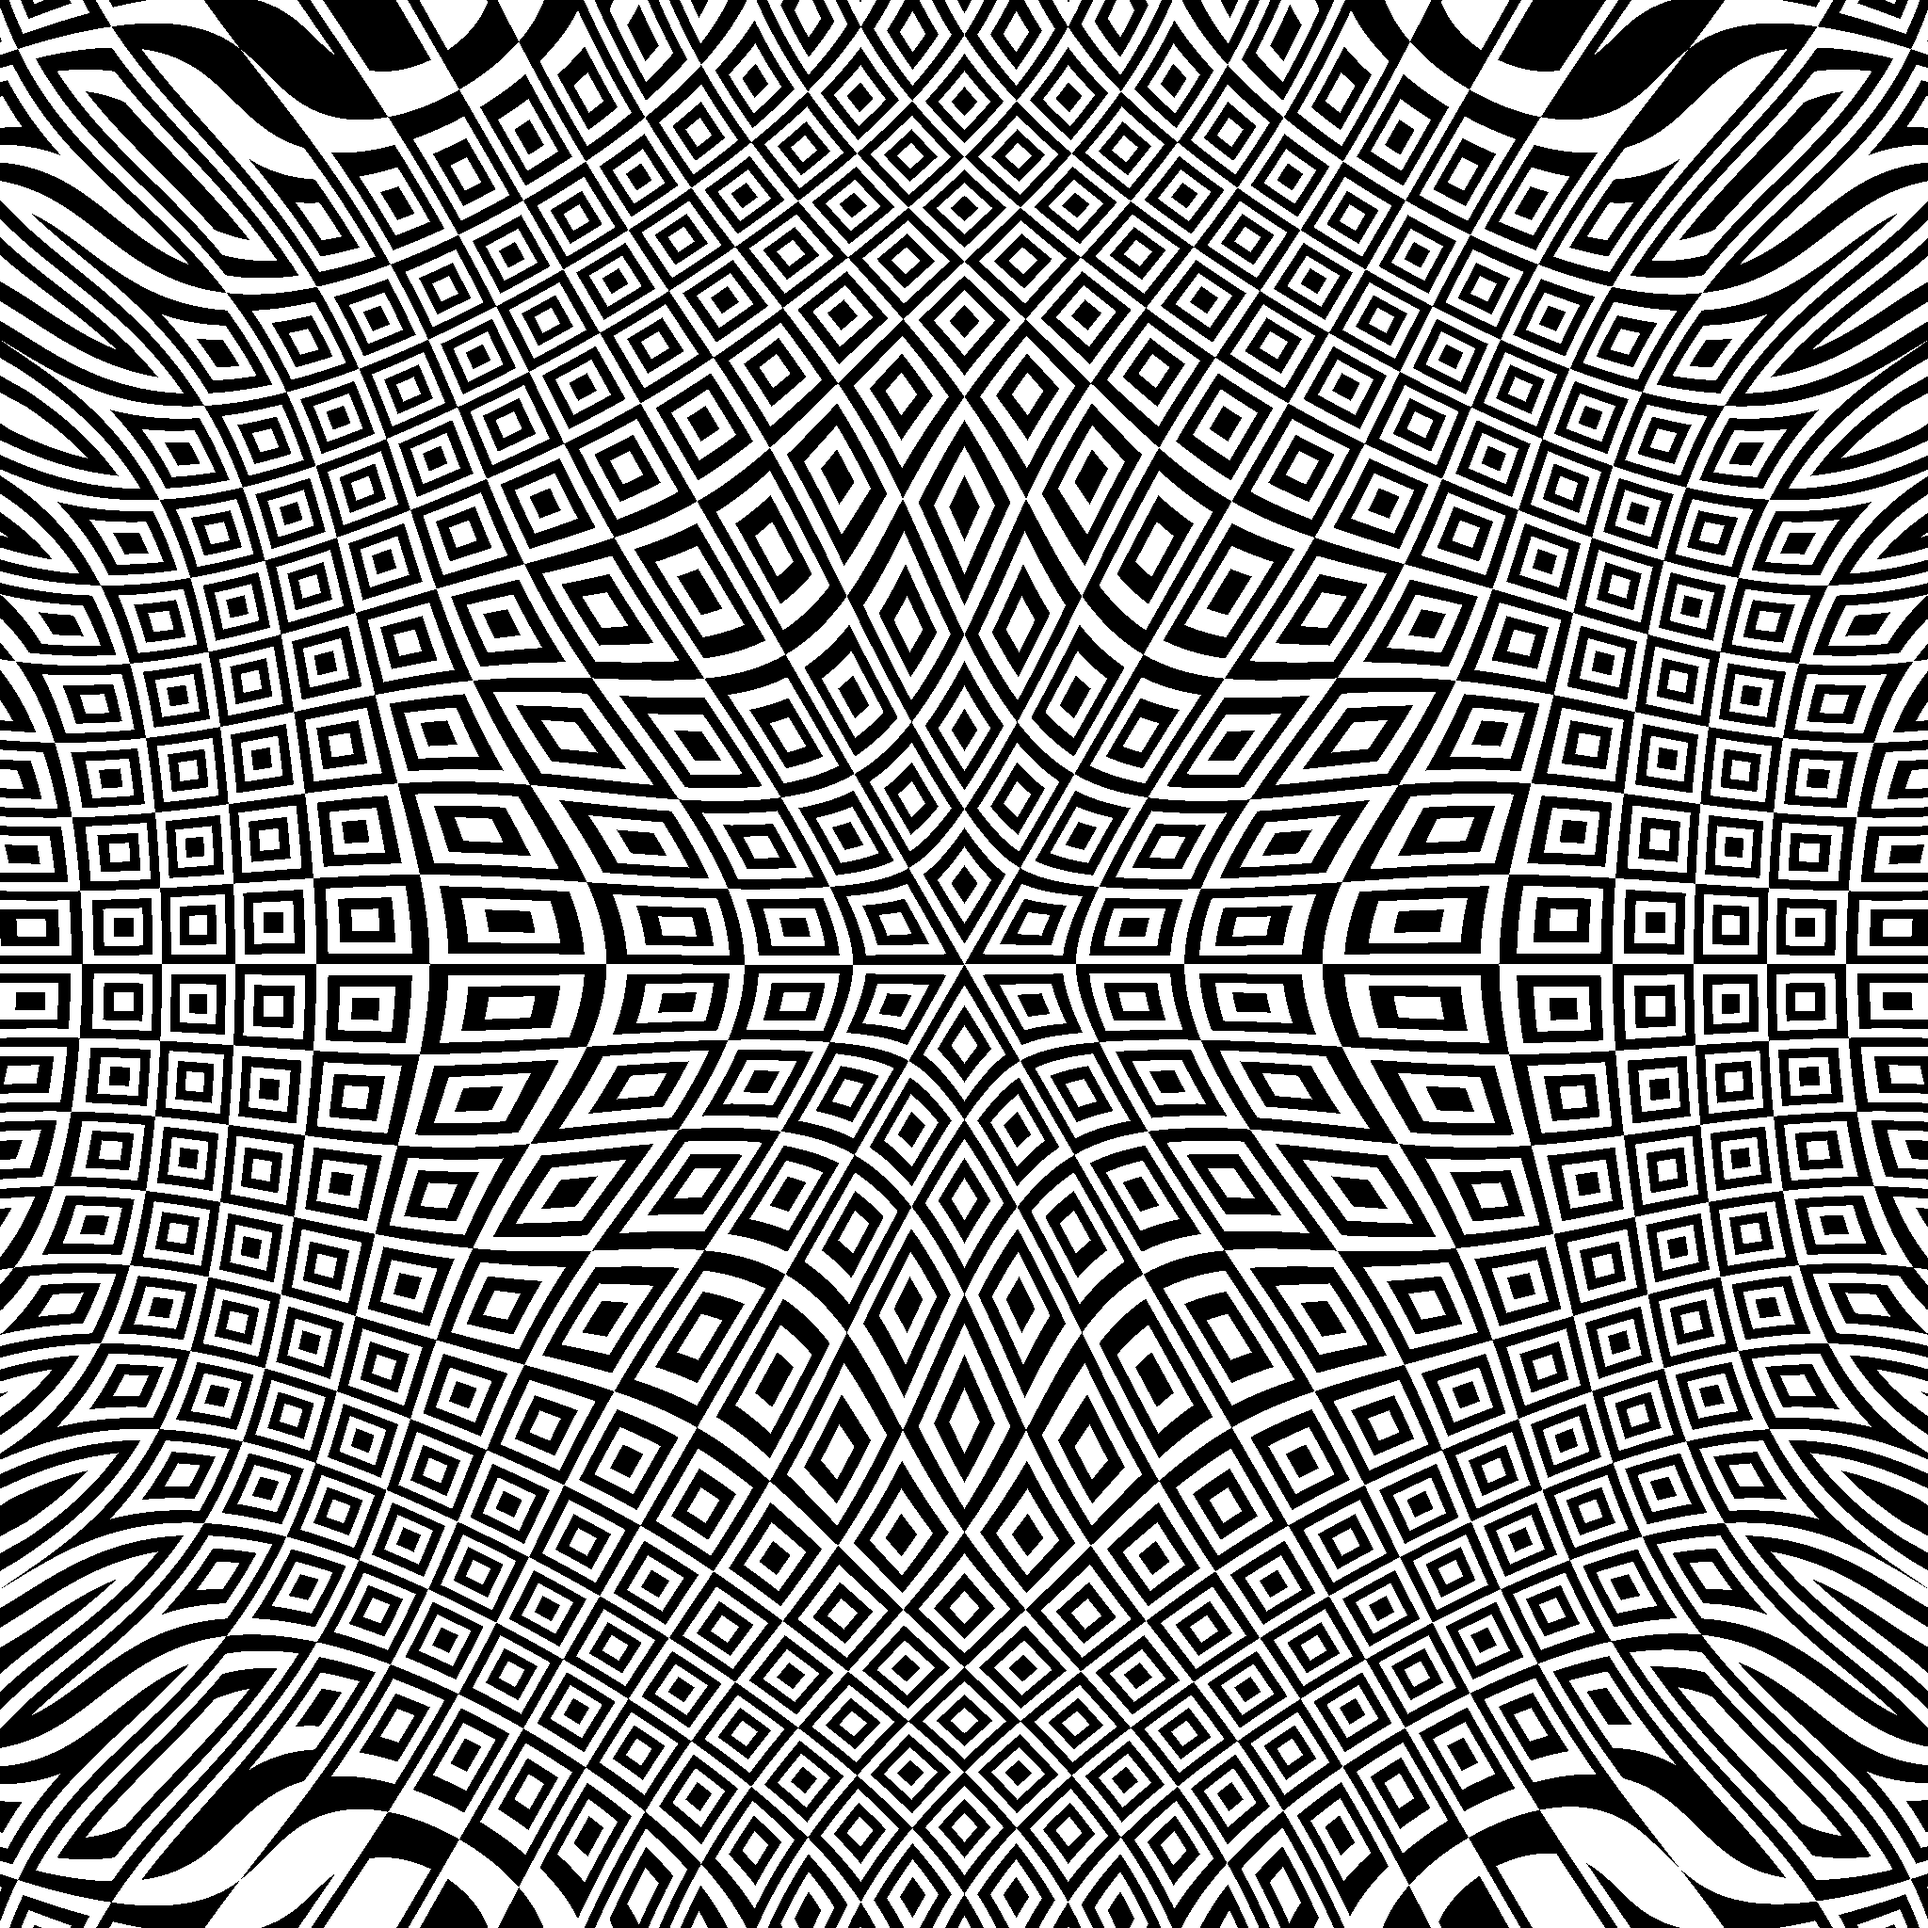
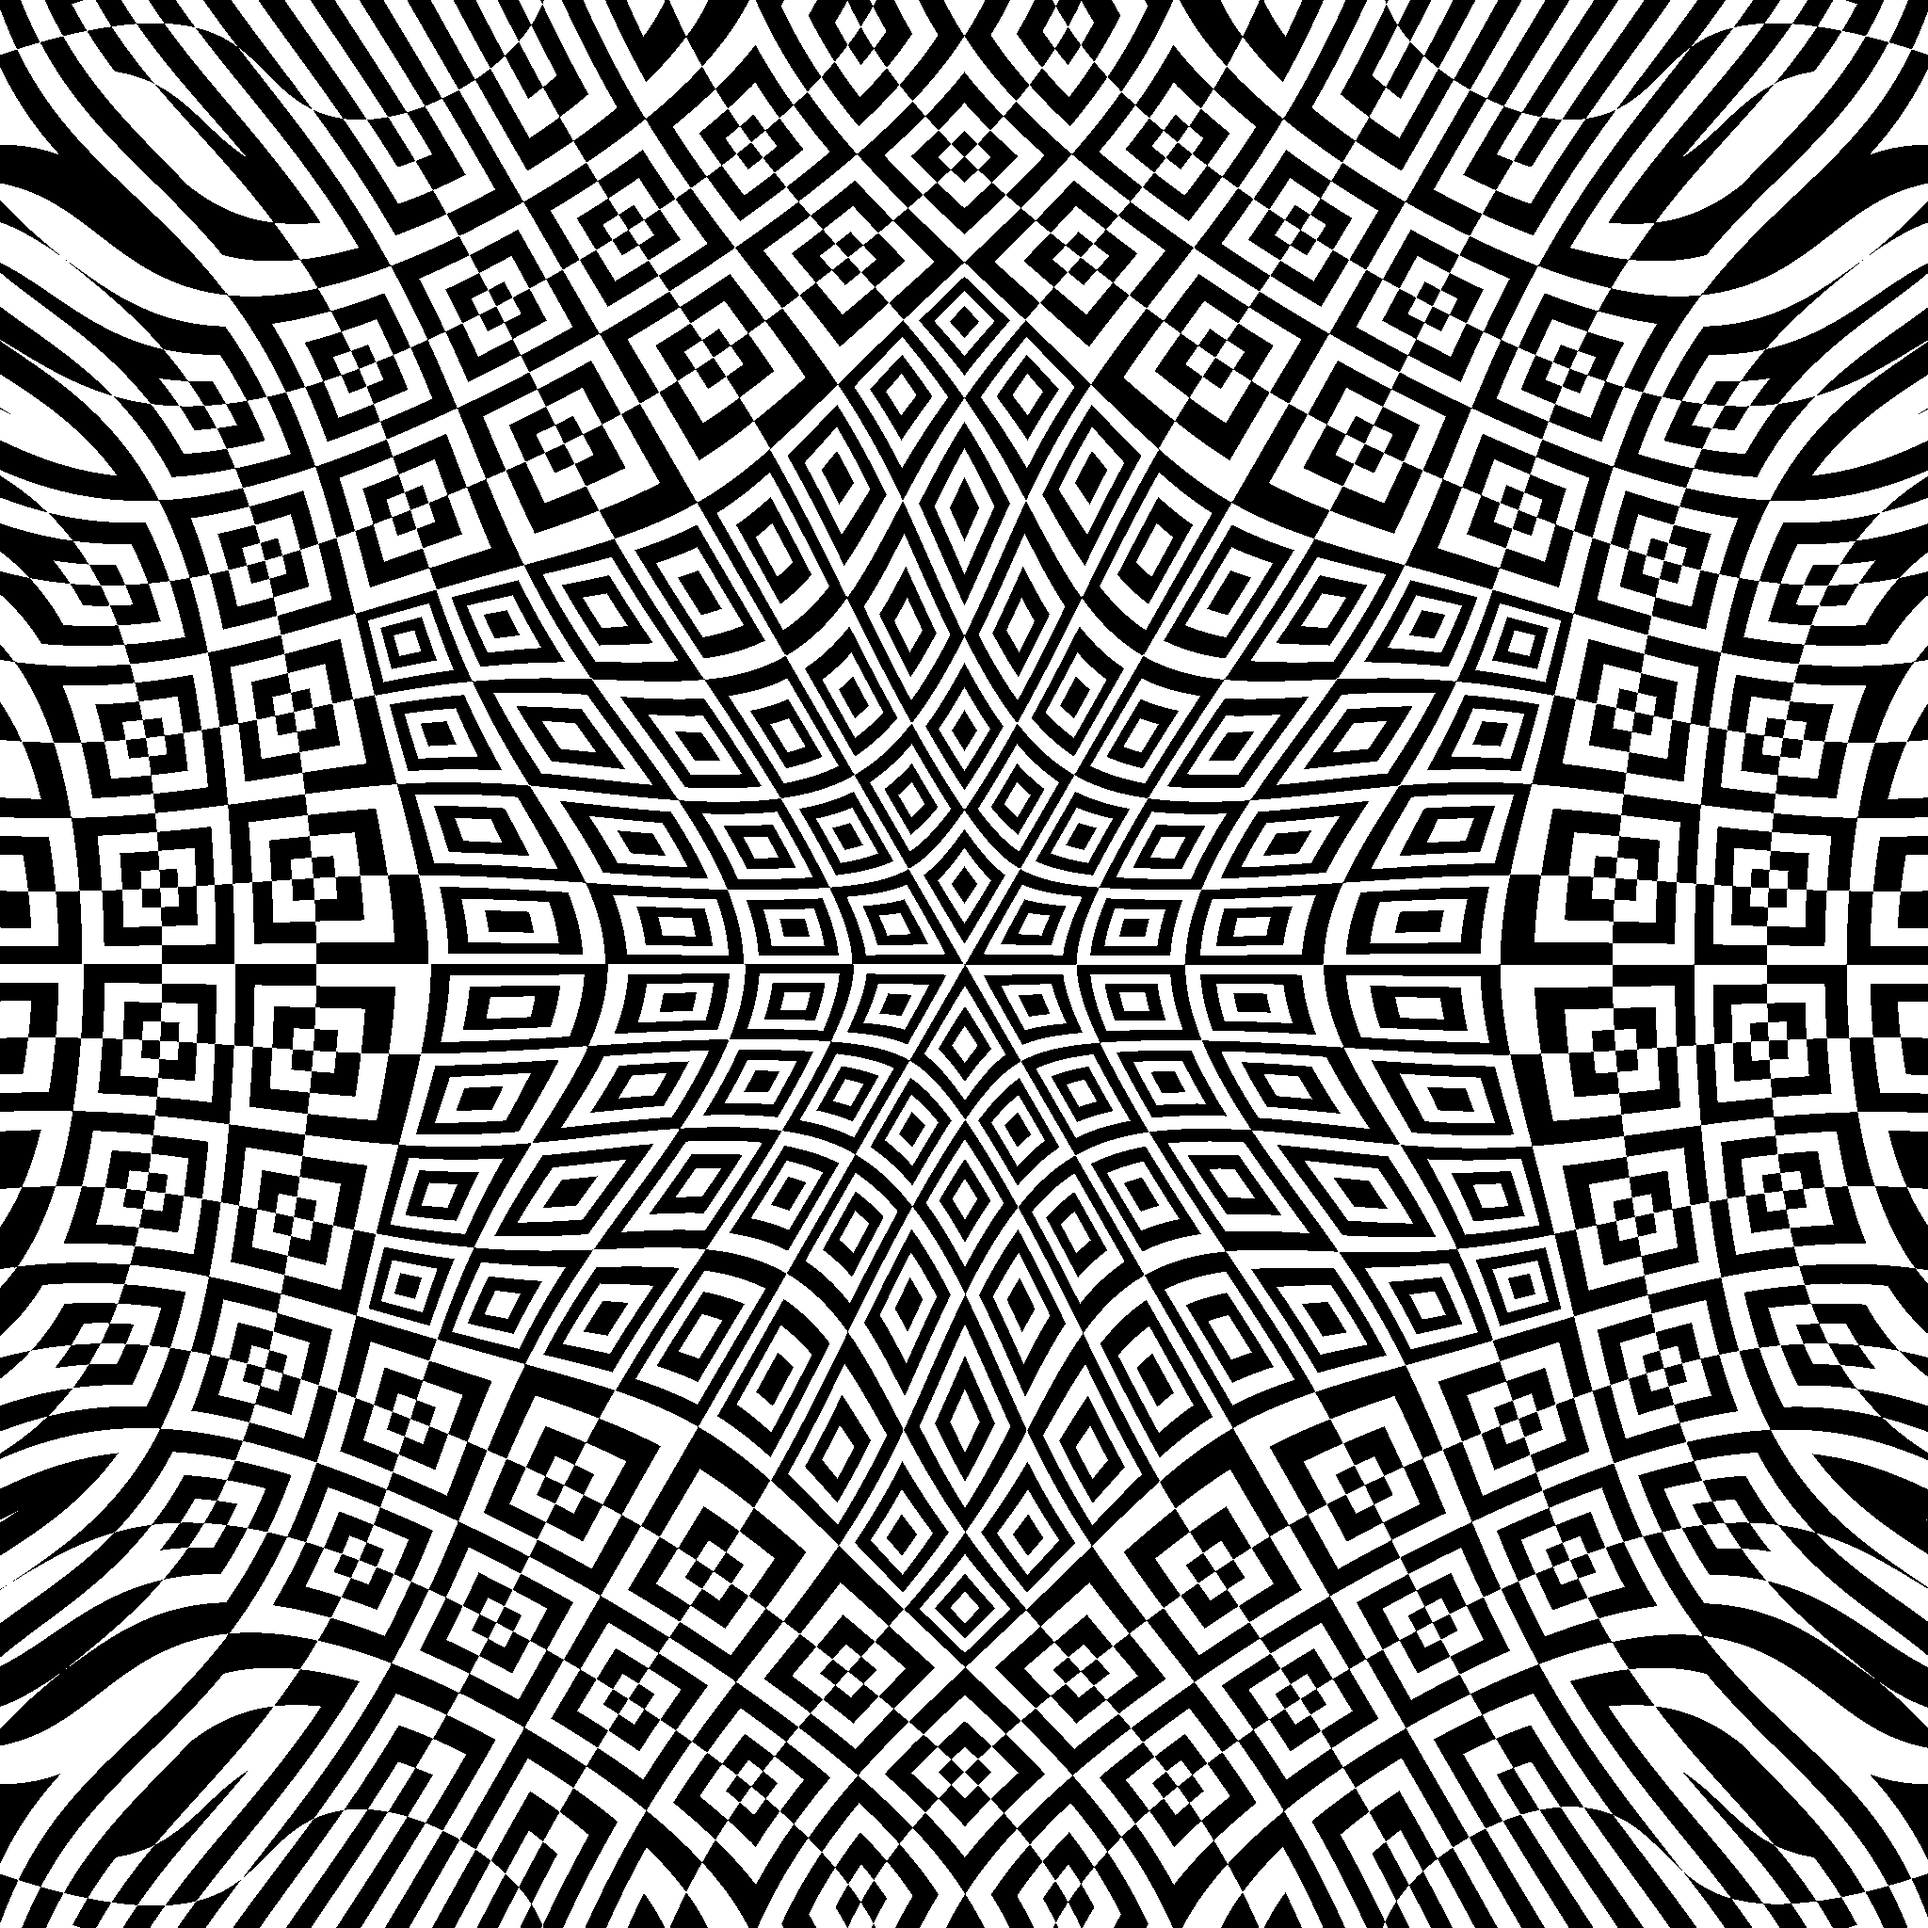
alter p9

diff --git a/p9.py b/p9.py
@@ -10,7 +10,9 @@ def radial_warp(i,j):
     return cx+np.cos(a)*r,cy+np.sin(a)*r
 
 imgsz=np.array([2*1024]*2)
-im=checkerboard(imgsz, imgsz//16)^imtile(boxN(imgsz//16,4),imgsz)
+im=checkerboard(imgsz, imgsz//16)^imtile(boxN(imgsz//8,4),imgsz)
+im2=checkerboard(imgsz, imgsz//16)^imtile(boxN(imgsz//16,4),imgsz)
+im[512:1536,512:1536]=im2[512:1536,512:1536]
 im=imwarp(im,radial_warp,cycle)
 imshow(im)
 imsave(im,'p9.png')
